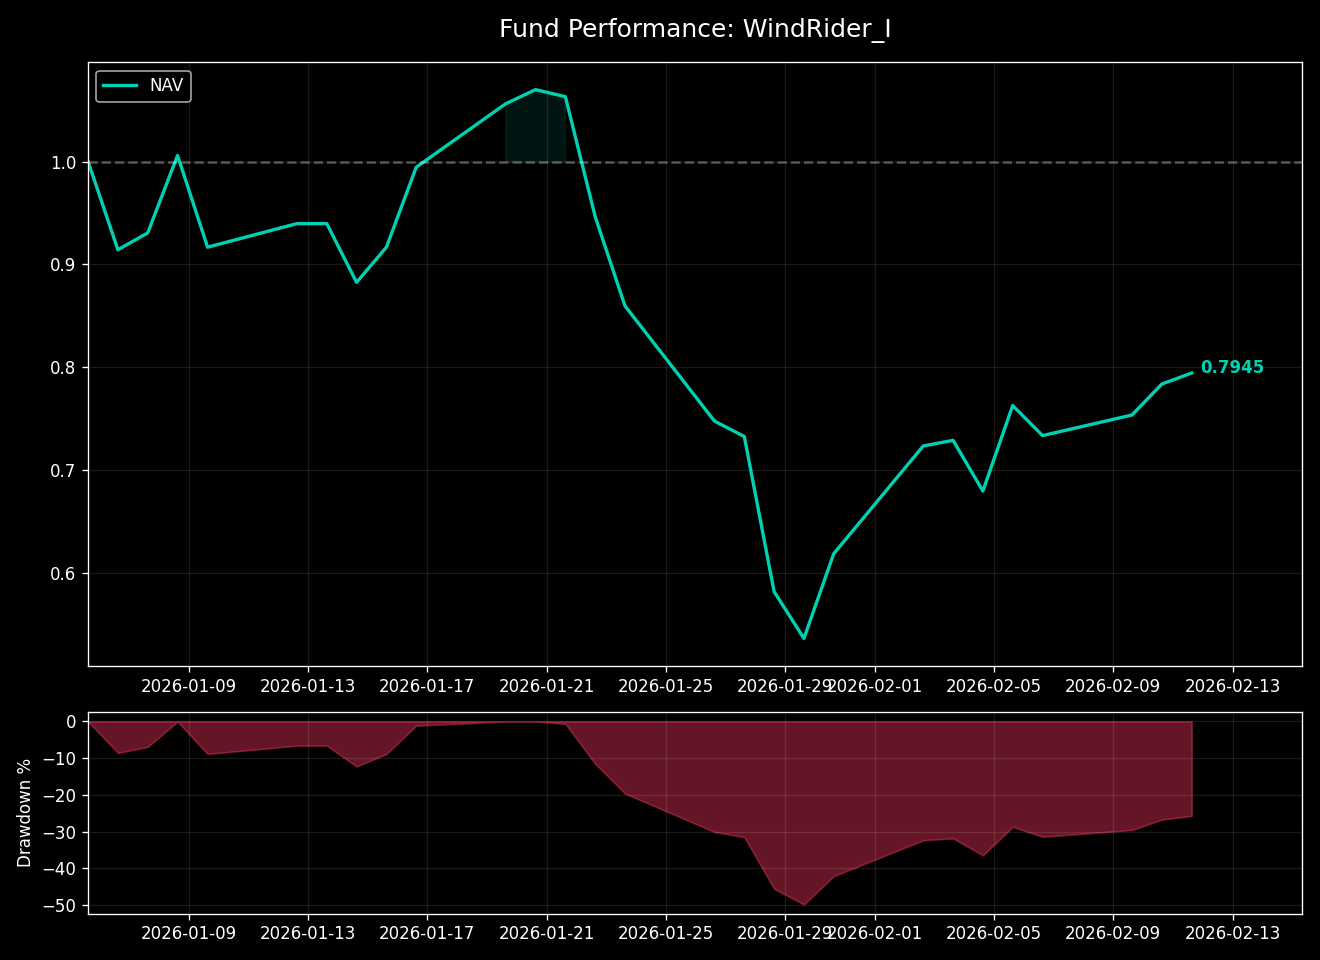
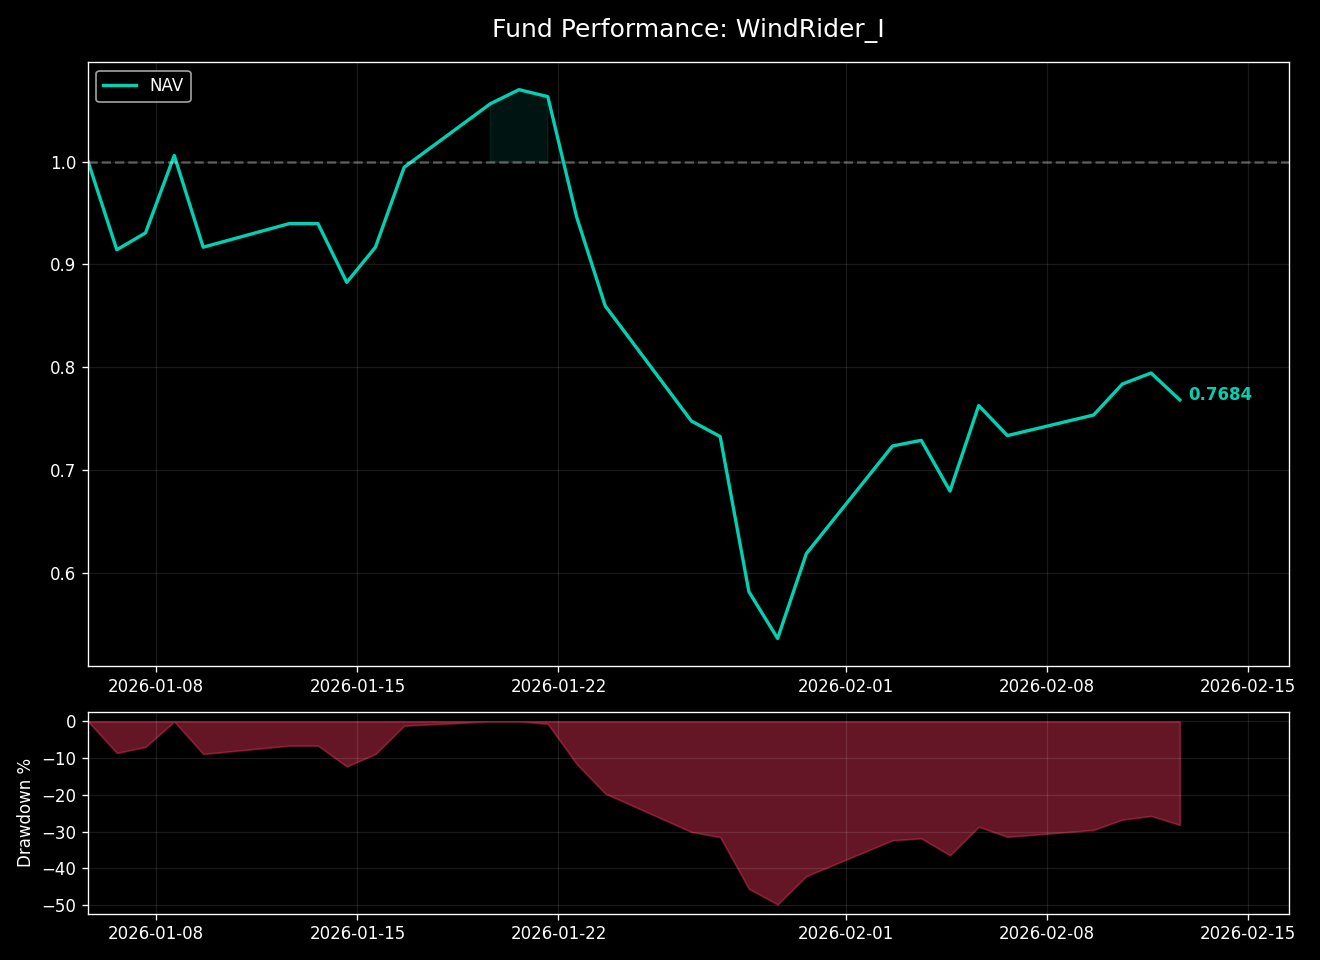
Updated Hugo site content

diff --git a/content/investment/windrider-1.md b/content/investment/windrider-1.md
@@ -1,8 +1,8 @@
 +++
 title = "风舵1号 (WindRider I)  /// 指数"
 summary = "商品期货分形摆动策略，实盘最新净值与核心风险指标。"
-date = 2026-02-11T15:15:03+08:00
-lastmod = 2026-02-11T15:15:03+08:00
+date = 2026-02-12T15:15:04+08:00
+lastmod = 2026-02-12T15:15:04+08:00
 draft = false
 description = "商品期货分形摆动策略实盘"
 +++
@@ -15,24 +15,24 @@ description = "商品期货分形摆动策略实盘"
 
 ### 风舵1号 (WindRider I) &nbsp;&nbsp;<span style="color: #E63946; font-weight: bold;">/</span><span style="color: #F1A73E; font-weight: bold;">/</span><span style="color: #000091; font-weight: bold;">/</span>&nbsp;&nbsp; 指数
 商品期货分形摆动策略实盘<br>
-净值简报 <small>(截至: 2026-02-11)</small>
+净值简报 <small>(截至: 2026-02-12)</small>
 
 |  |  |
 | :--- | :--- |
 | **指数代码：** | WDR1.CTA |
 | **起步日期：** | 2026-01-05 |
-| **最新净值：** | 0.7945 |
-| **今日涨跌：** | +1.37% |
+| **最新净值：** | 0.7684 |
+| **今日涨跌：** | -3.29% |
 
 ===========================
 
 | 核心指标 | |
 | :--- | :--- |
-| **累计涨跌：** | -20.55% |
-| **年化收益：** | -89.66% |
+| **累计涨跌：** | -23.16% |
+| **年化收益：** | -92.04% |
 | **最大回撤：** | -49.85% |
-| **卡玛比率：** | -1.80 |
-| **策略状态：** | 已运行 38 天 |
+| **卡玛比率：** | -1.85 |
+| **策略状态：** | 已运行 39 天 |
 
 ### 净值曲线
 ![风舵1号净值曲线](/images/investment/windrider_nav.png)
